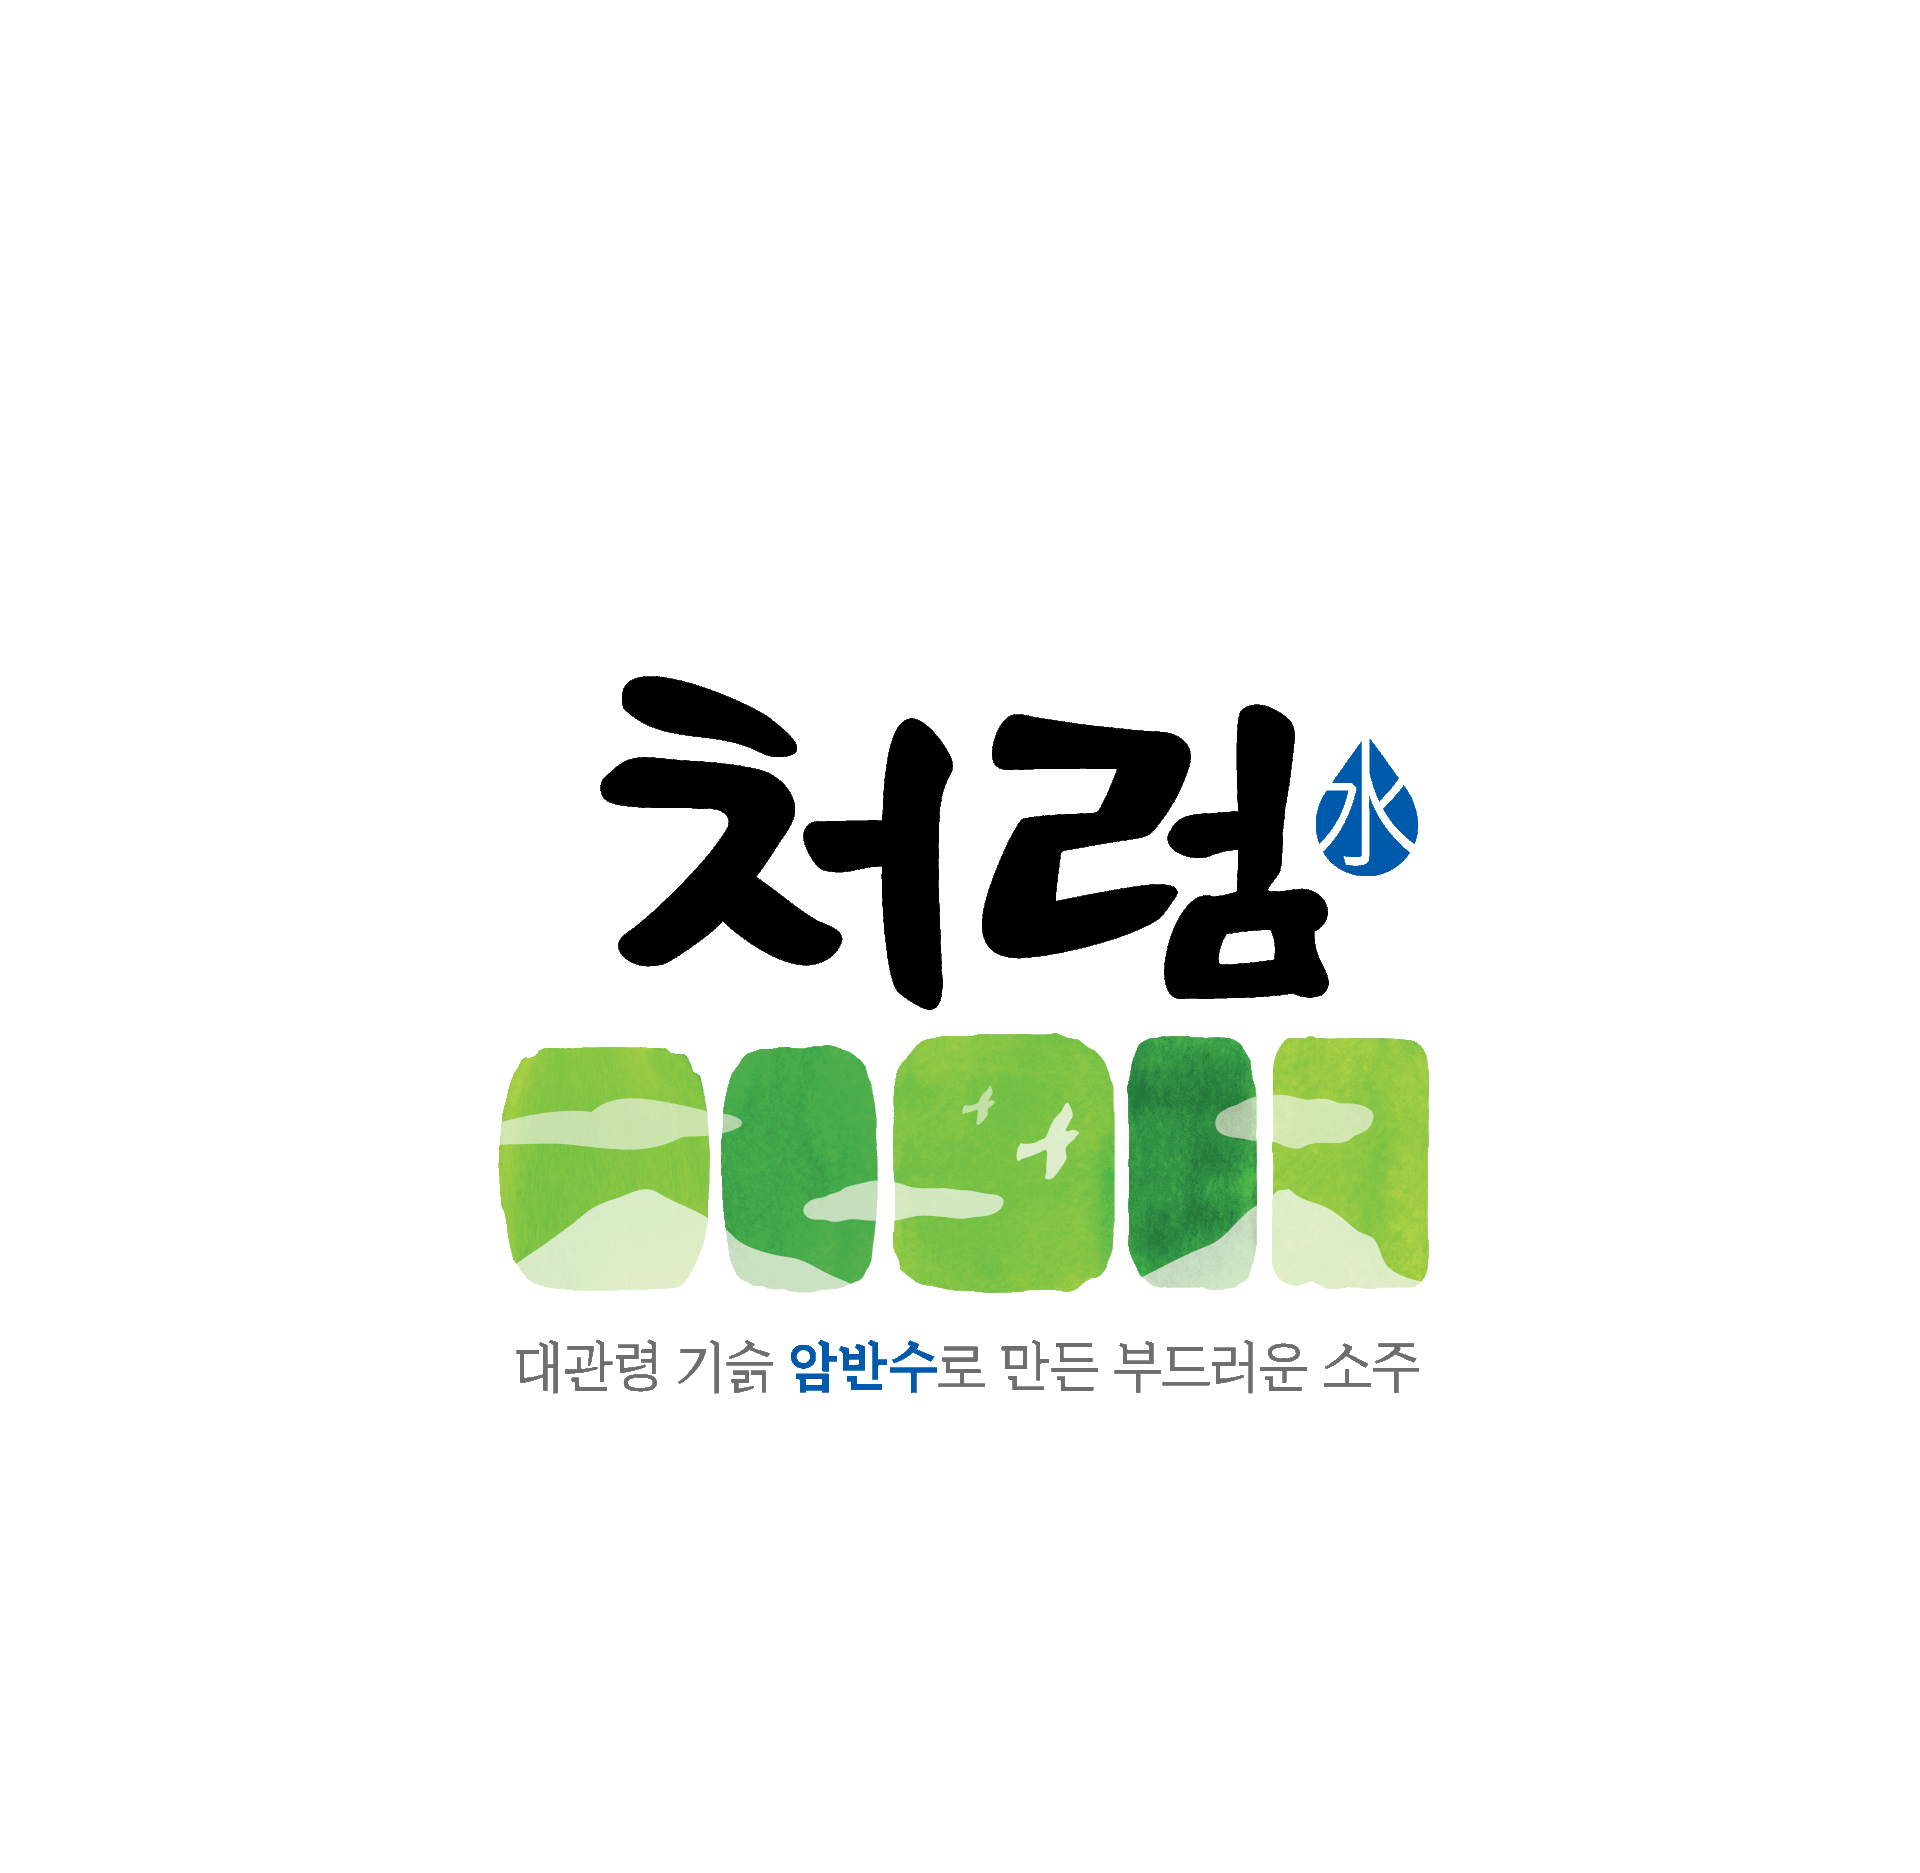
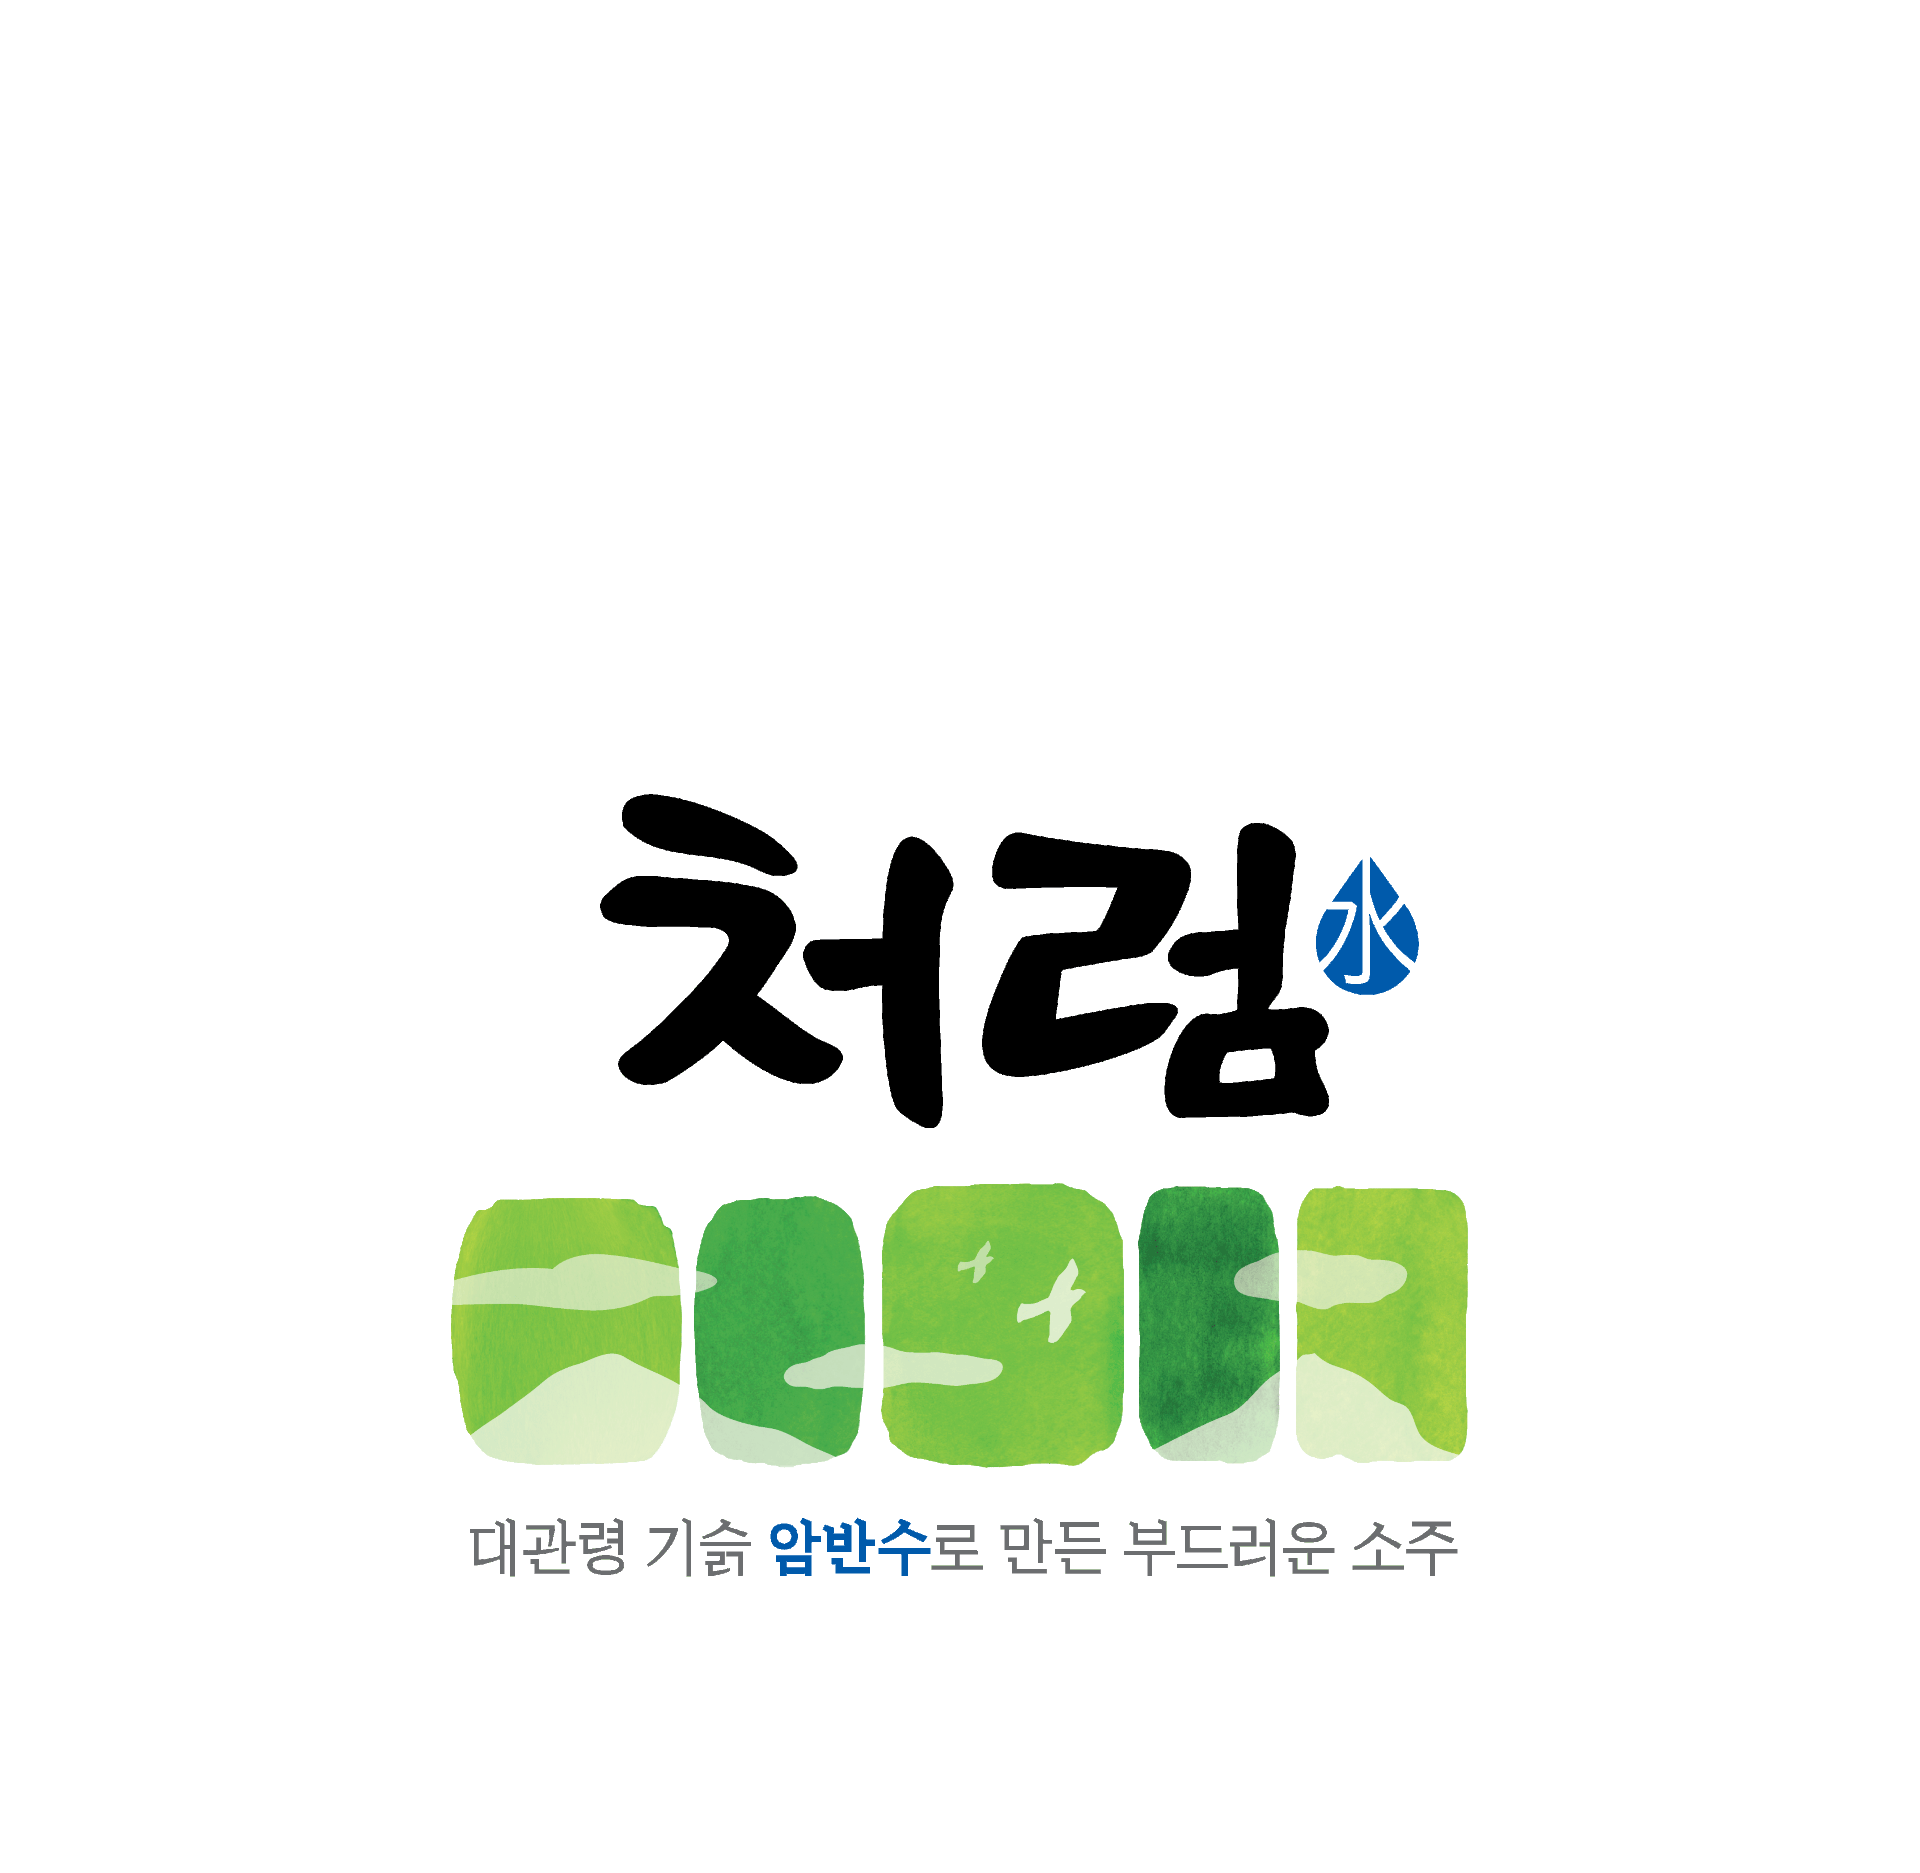
design: 배경이미지 및 폰트 위치 수정

Changed region(s): [[0.2188, 0.3406, 0.7812, 0.8361]]

diff --git a/app/postings/[id]/page.js b/app/postings/[id]/page.js
@@ -156,7 +156,8 @@ function Page() {
 
         if (templateNumber === "0") {
           titleX = canvasWidth / 2;
-          titleY = (canvasHeight * 4) / 13;
+          // titleY = (canvasHeight * 4) / 13;
+          titleY = 700;
           fontSize = "384px";
           fontFamily = "ChumChurumTitle";
           fontWeight = "normal";
@@ -463,7 +464,7 @@ function Page() {
                     fontFamily: "ChumChurumTitle",
                     fontWeight: 400,
                     fontSize: `${(boxSize.width * 0.2).toFixed(3)}px`,
-                    top: "6%",
+                    top: "11%",
                   }}
                 >
                   {title}
